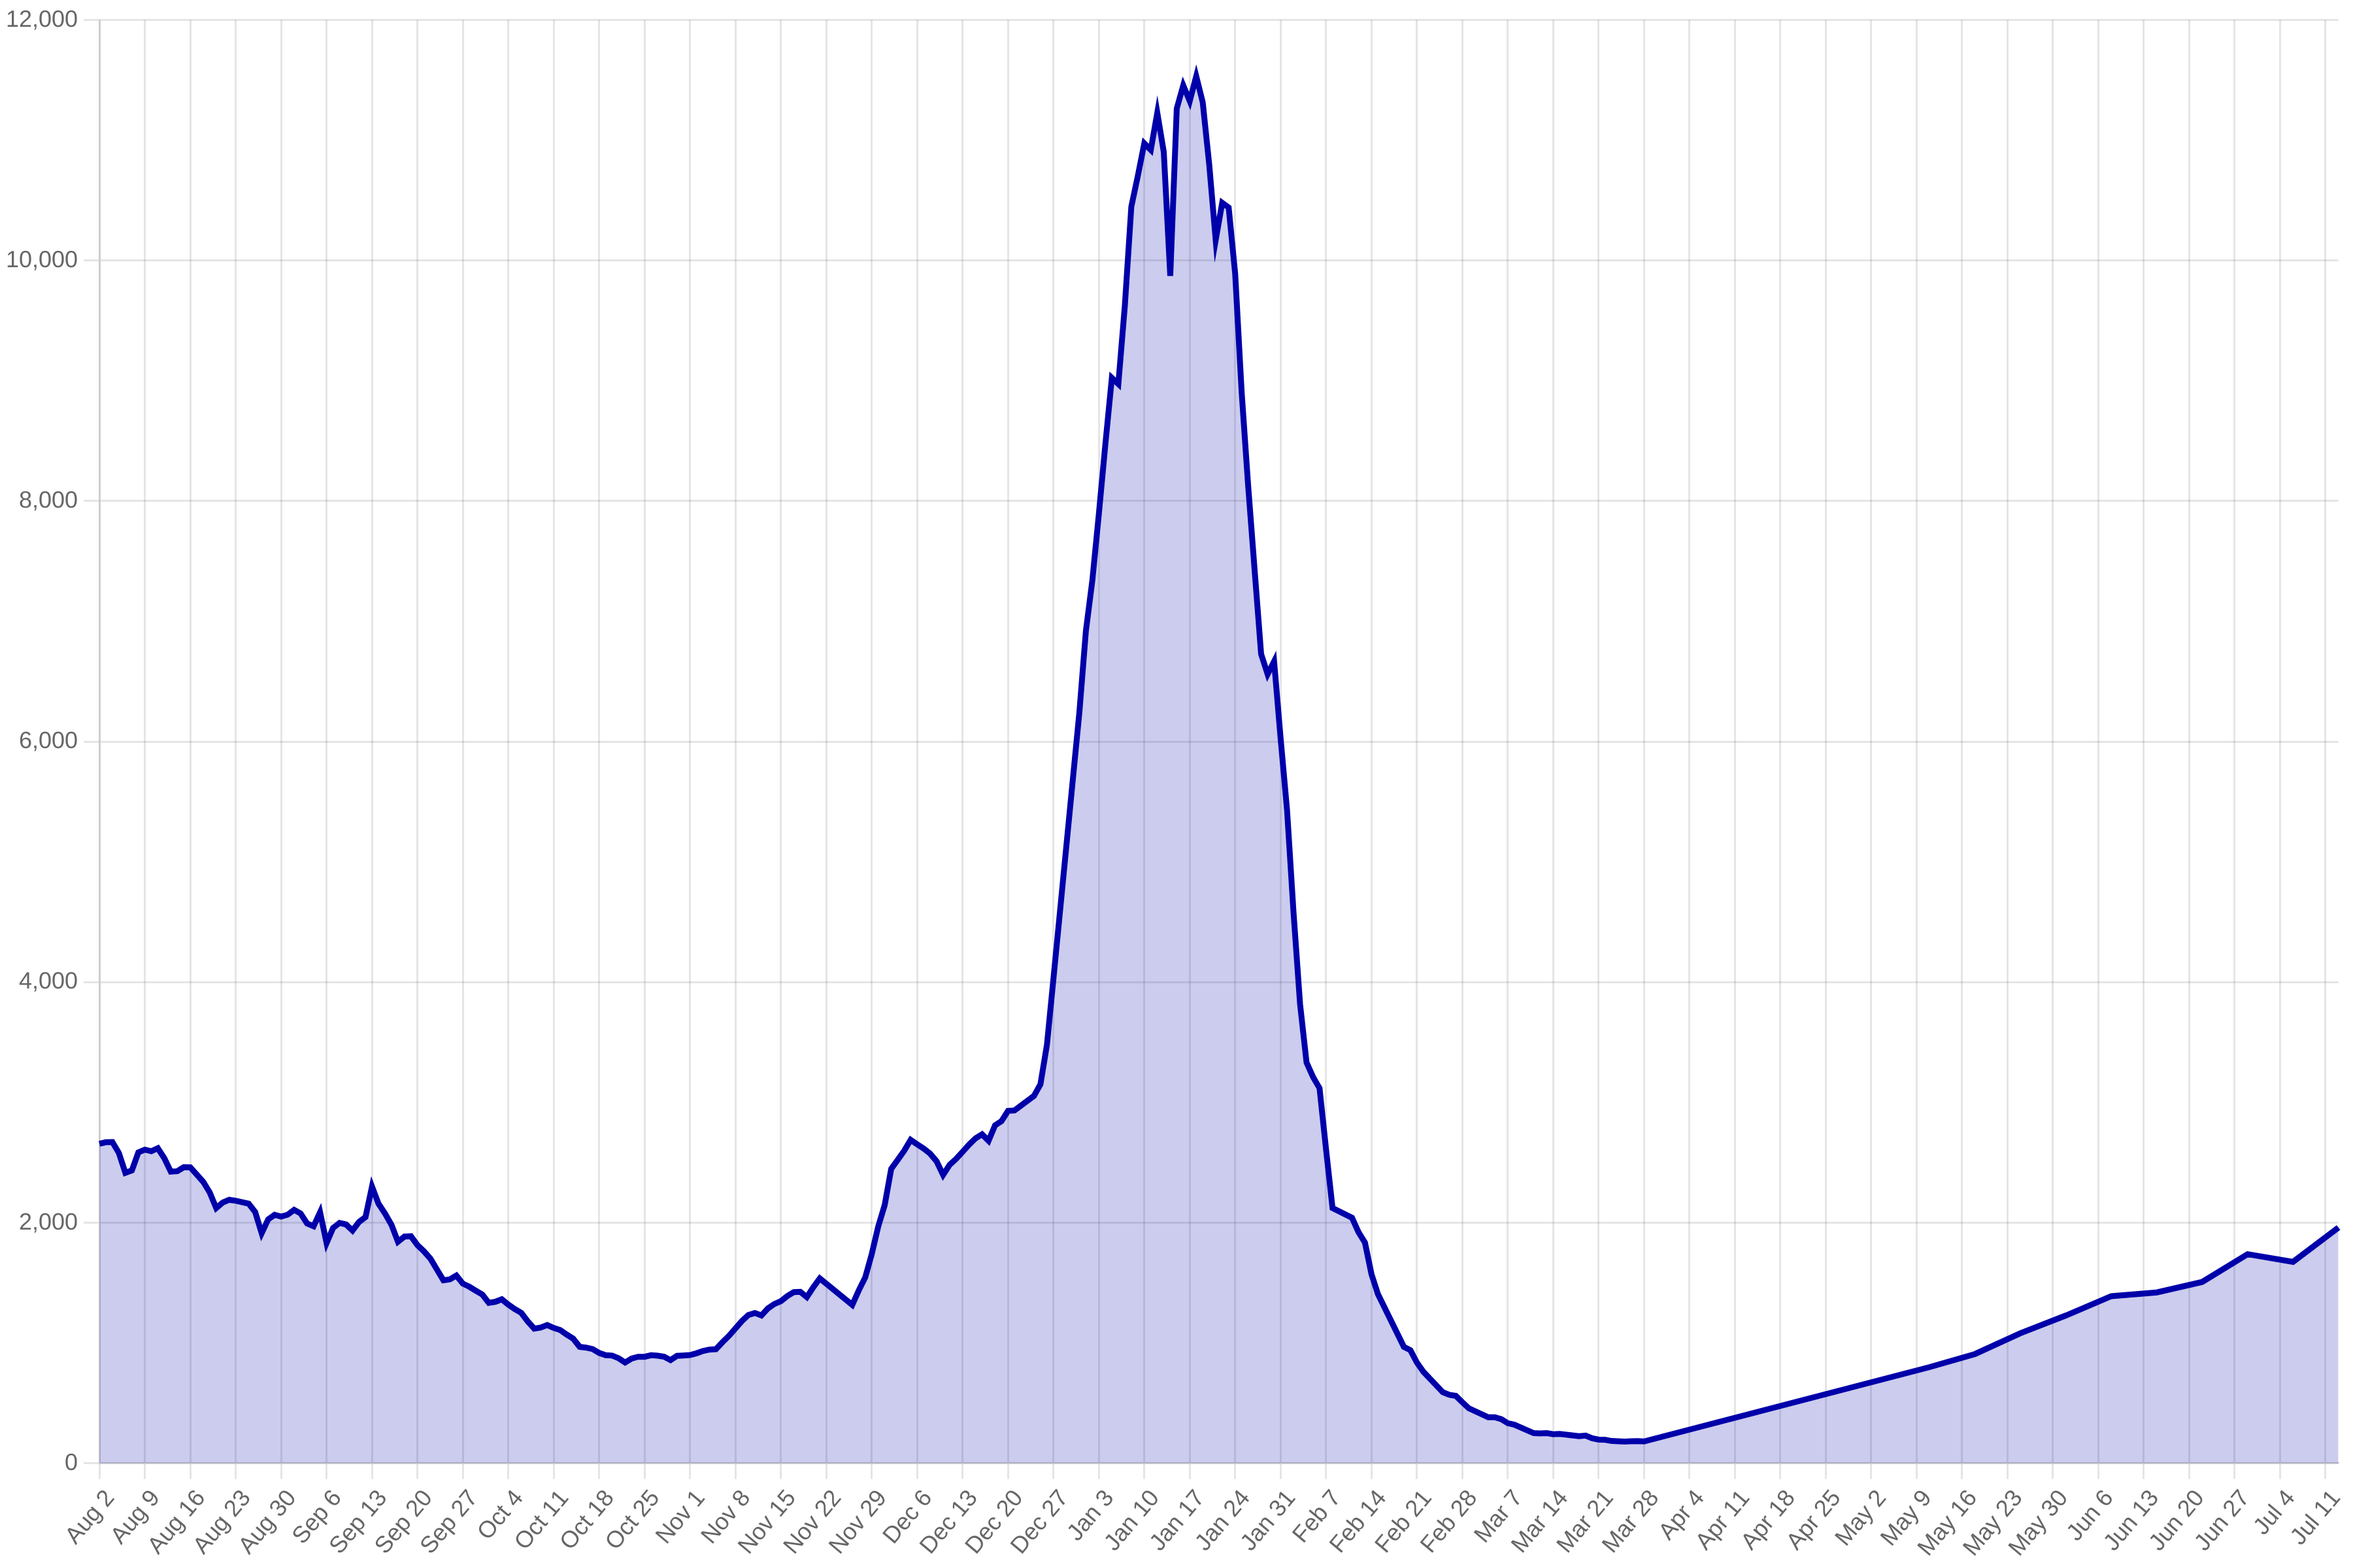
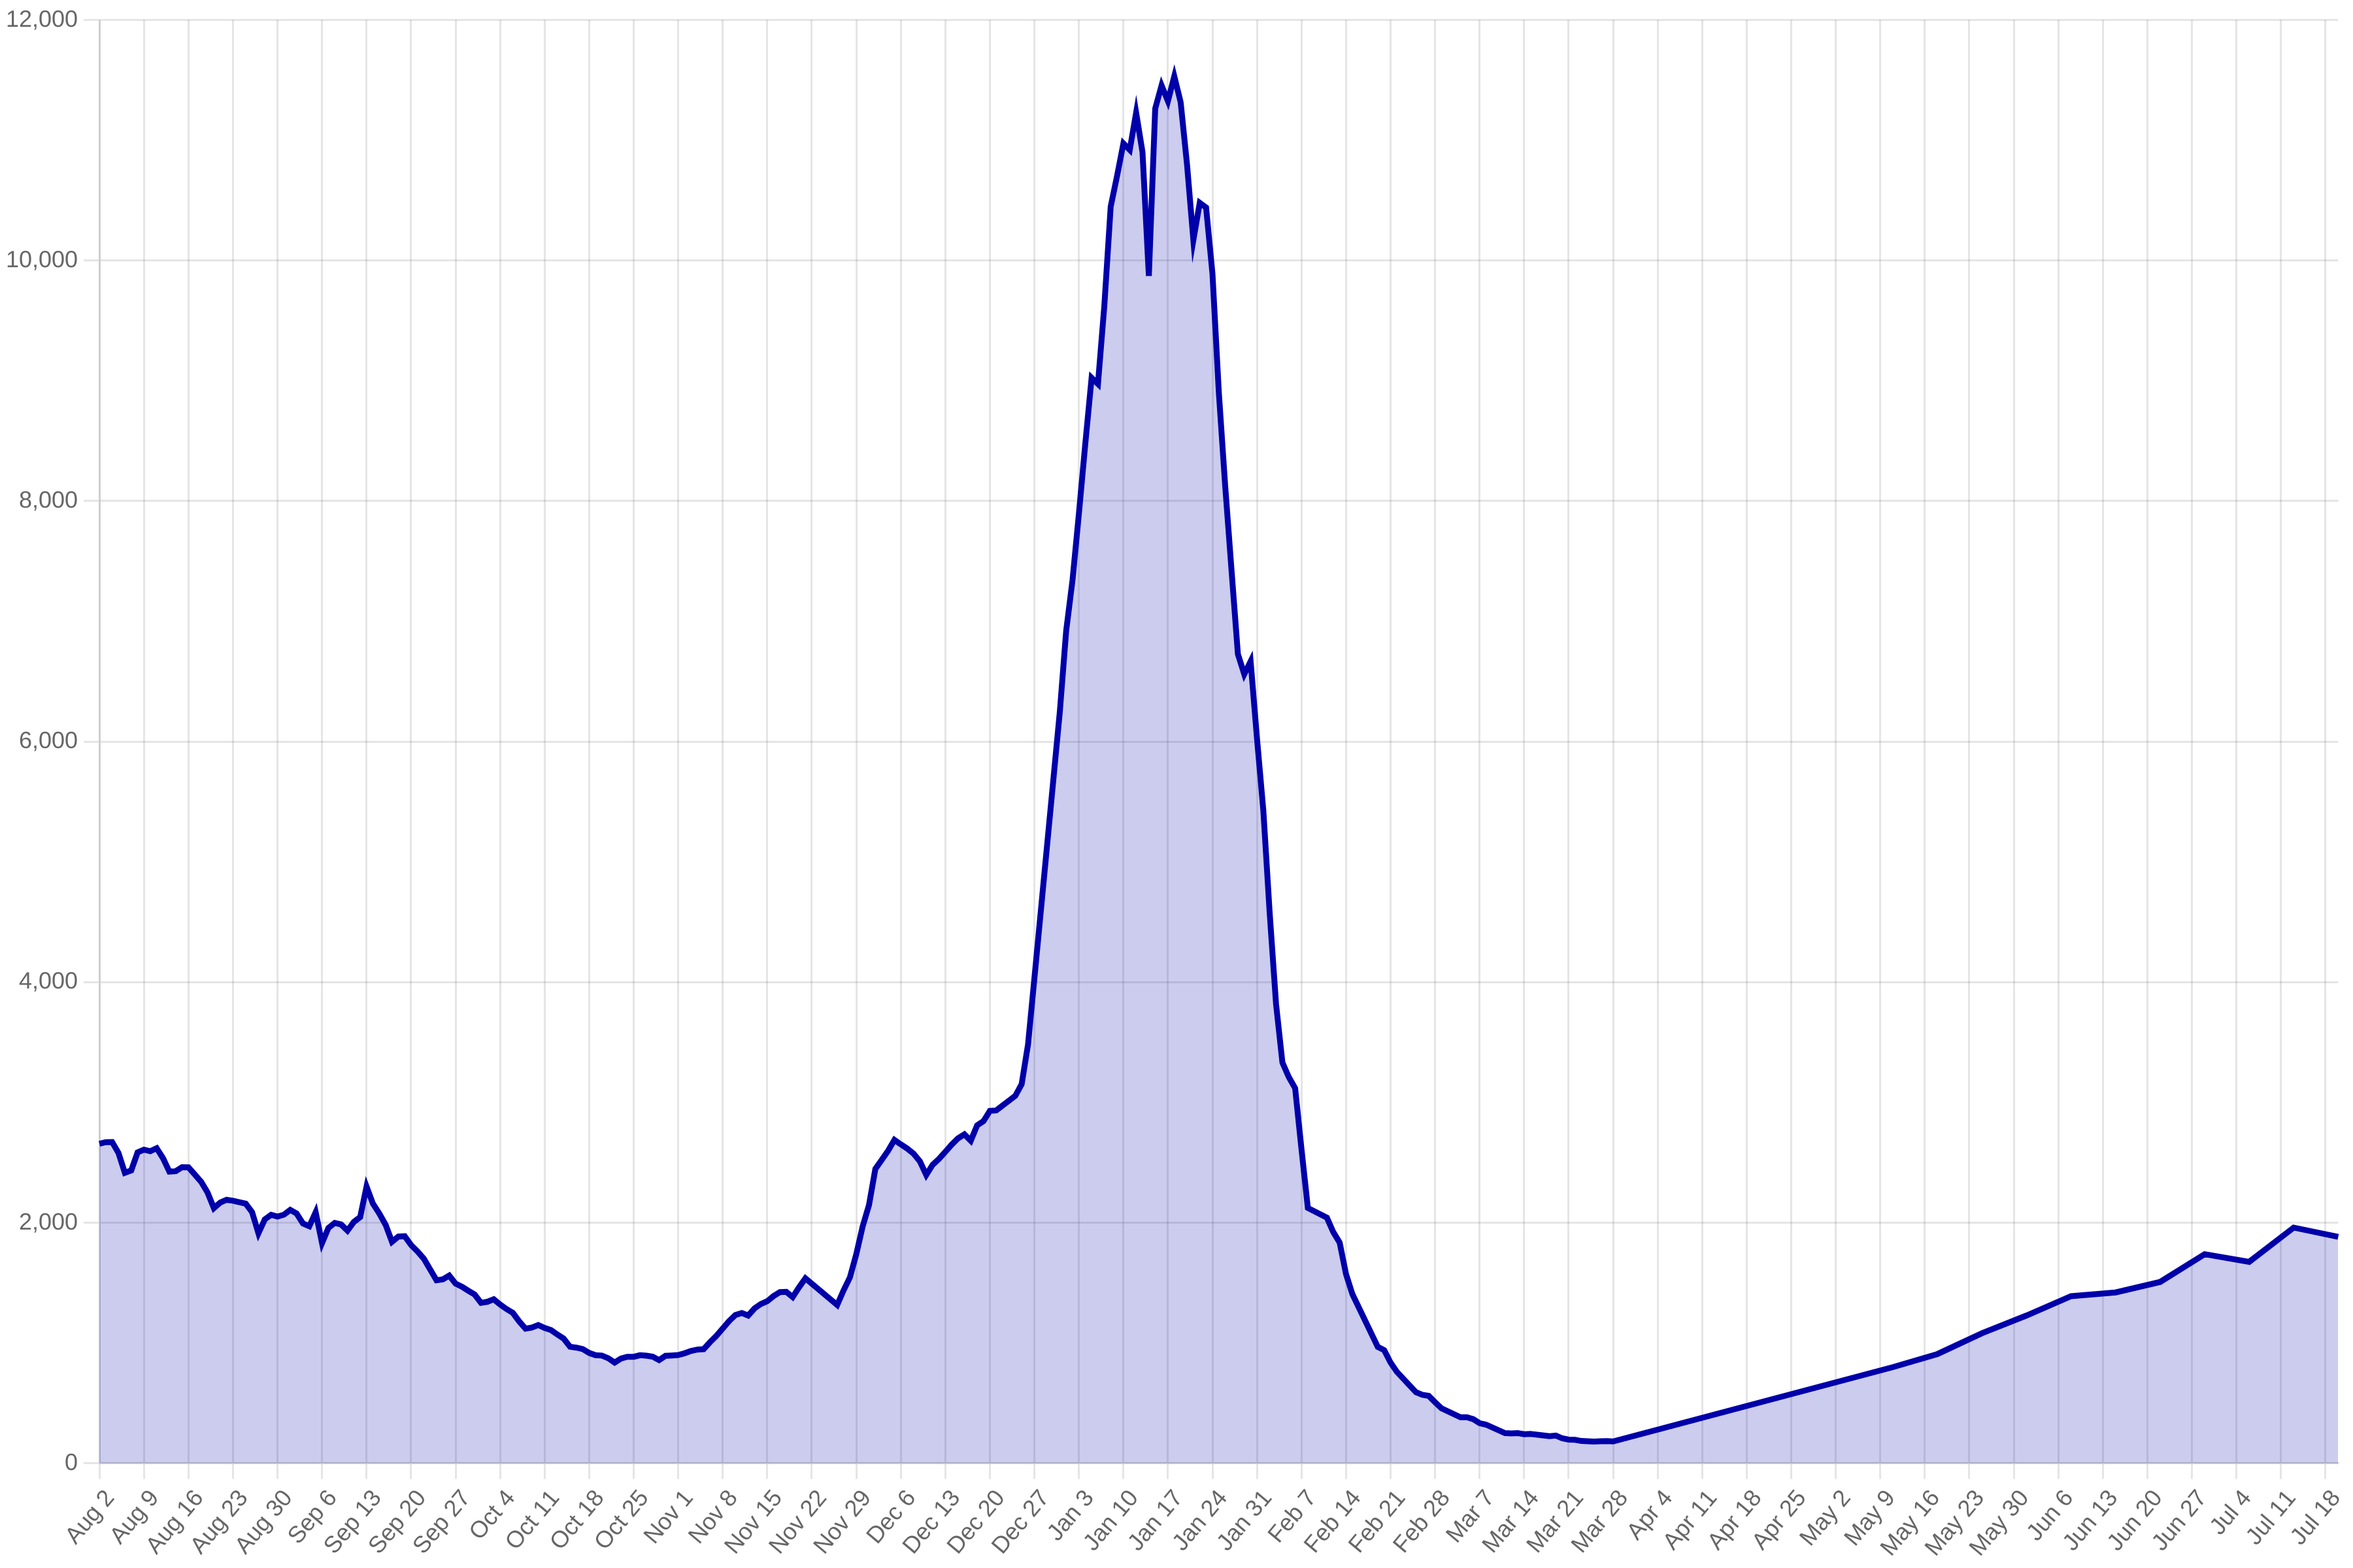
regular update

Changed region(s): [[0.0622, 0.0312, 0.9956, 1.0], [0.0933, 0.0312, 0.3111, 0.875]]

diff --git a/docs/index.html b/docs/index.html
@@ -43,10 +43,10 @@
     <main>
       <h1>Missouri COVID data</h1>
       <p>
-        The data on this page was updated <strong>Friday, July 15, 2022</strong>. For
+        The data on this page was updated <strong>Friday, July 22, 2022</strong>. For
         the values that are averages over 7 days, the start date is
-        <strong>Thursday, July 7, 2022</strong> and the end date is
-        <strong>Wednesday, July 13, 2022</strong>. The original data comes from the
+        <strong>Thursday, July 14, 2022</strong> and the end date is
+        <strong>Wednesday, July 20, 2022</strong>. The original data comes from the
         <a
           href="https://results.mo.gov/t/COVID19/views/WeeklyCOVIDMockup_16487370423730/WeeklyReport-Revised-v2?:embed=y&:showVizHome=no&:host_url=https%3A%2F%2Fresults.mo.gov%2F&:embed_code_version=3&:tabs=no&:toolbar=no&:showAppBanner=false&:display_spinner=no&:loadOrderID=0"
           >Missouri Department of Health and Senior Services</a
@@ -79,19 +79,19 @@
 
       <h2>New cases</h2>
       <p>
-        There have been <strong>13,717</strong> new cases in the
-        past 7 days, about <strong>1,960 per day</strong>.
+        There have been <strong>13,180</strong> new cases in the
+        past 7 days, about <strong>1,883 per day</strong>.
       </p>
       <img src="charts/totalPositive.png" />
 
       <h2>Outcomes</h2>
       <p>
-        There are currently 920 people hospitalized with
+        There are currently 1,083 people hospitalized with
         COVID-19.
       </p>
       <img src="charts/hospitalizations.png" />
 
-      <p>107 people are in intensive care.</p>
+      <p>129 people are in intensive care.</p>
       <img src="charts/icu.png" />
 
       <h2>Unavailable</h2>
